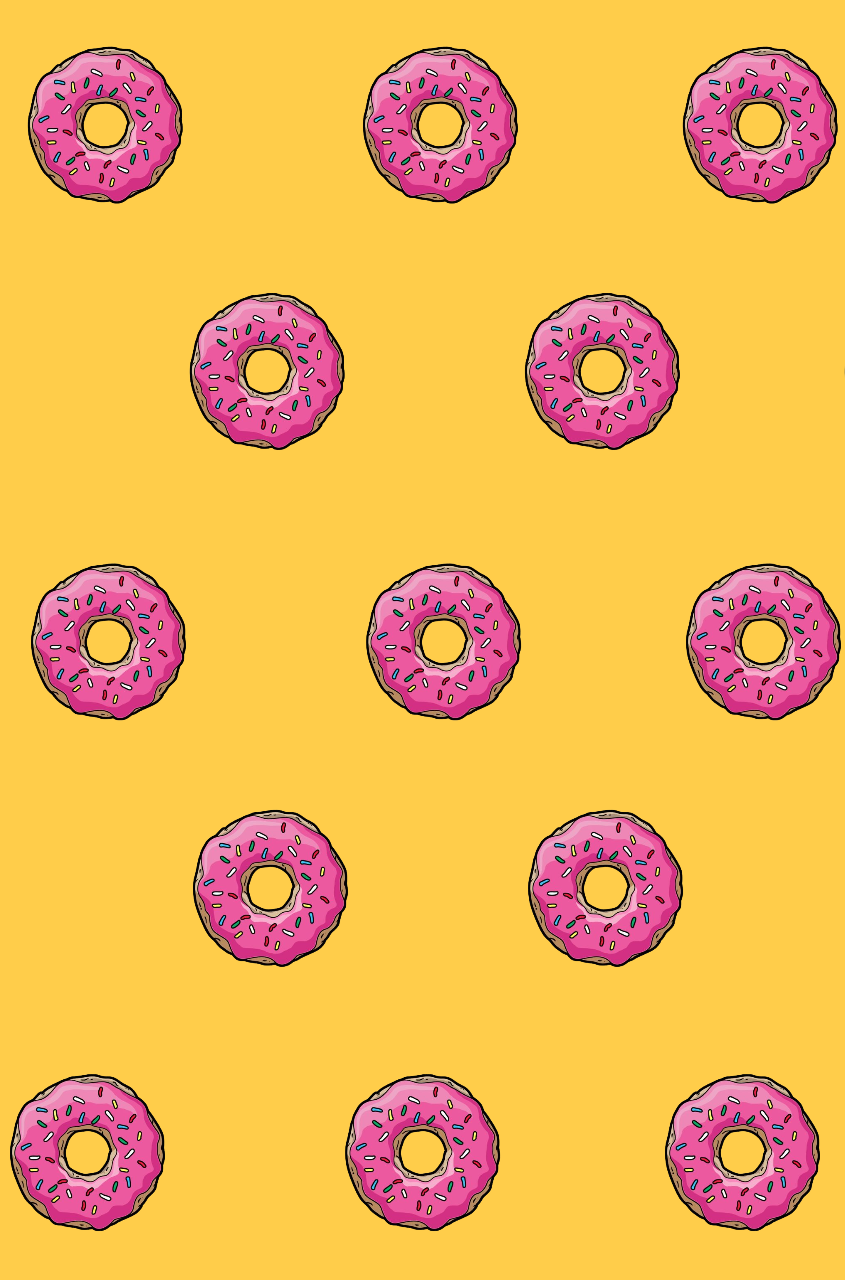
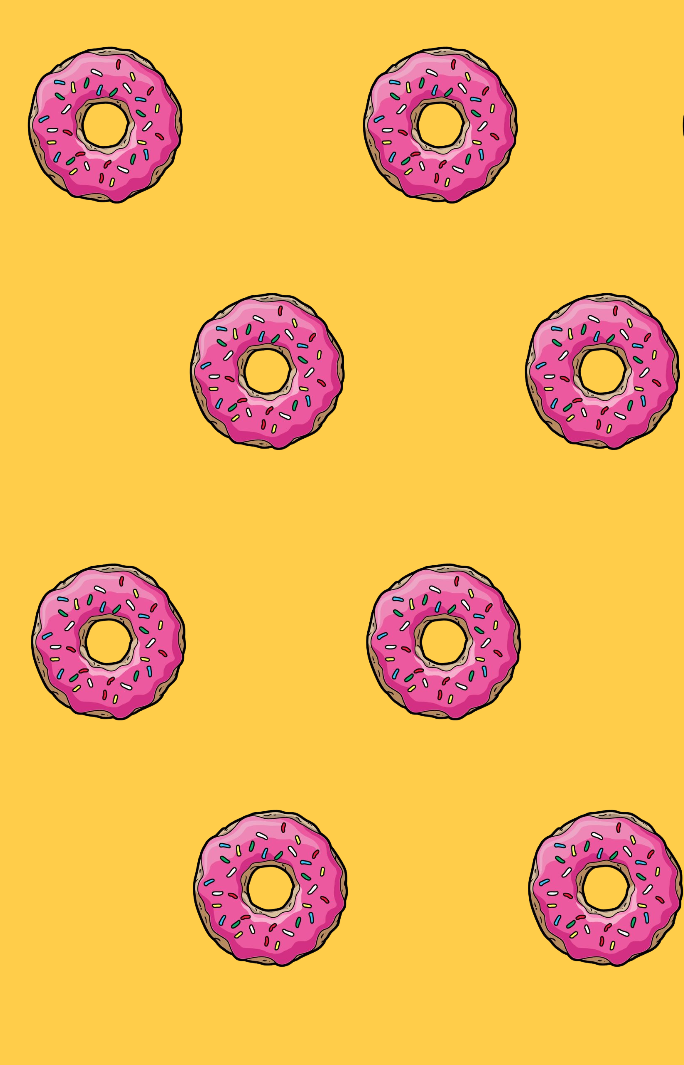
FIXED:simpsons_test_bg

diff --git a/static/css/result.css b/static/css/result.css
@@ -17,7 +17,7 @@ body {
 
 .bodyh {
     background-image: url(/static/img/bg_halloween.jpg);
-    background-size: 100% 100%;
+    background-size: 100%;
     font-family: 'Kirang Haerang';
     color: #1b3711;
 }

diff --git a/static/css/test.css b/static/css/test.css
@@ -20,7 +20,7 @@ main {
 
 .main-s {
     background-image: url('/static/img/bg_simpson.png');
-    background-size: 100% 100%;
+    /* background-size: 100%; */
 }
 
 .main-h {
